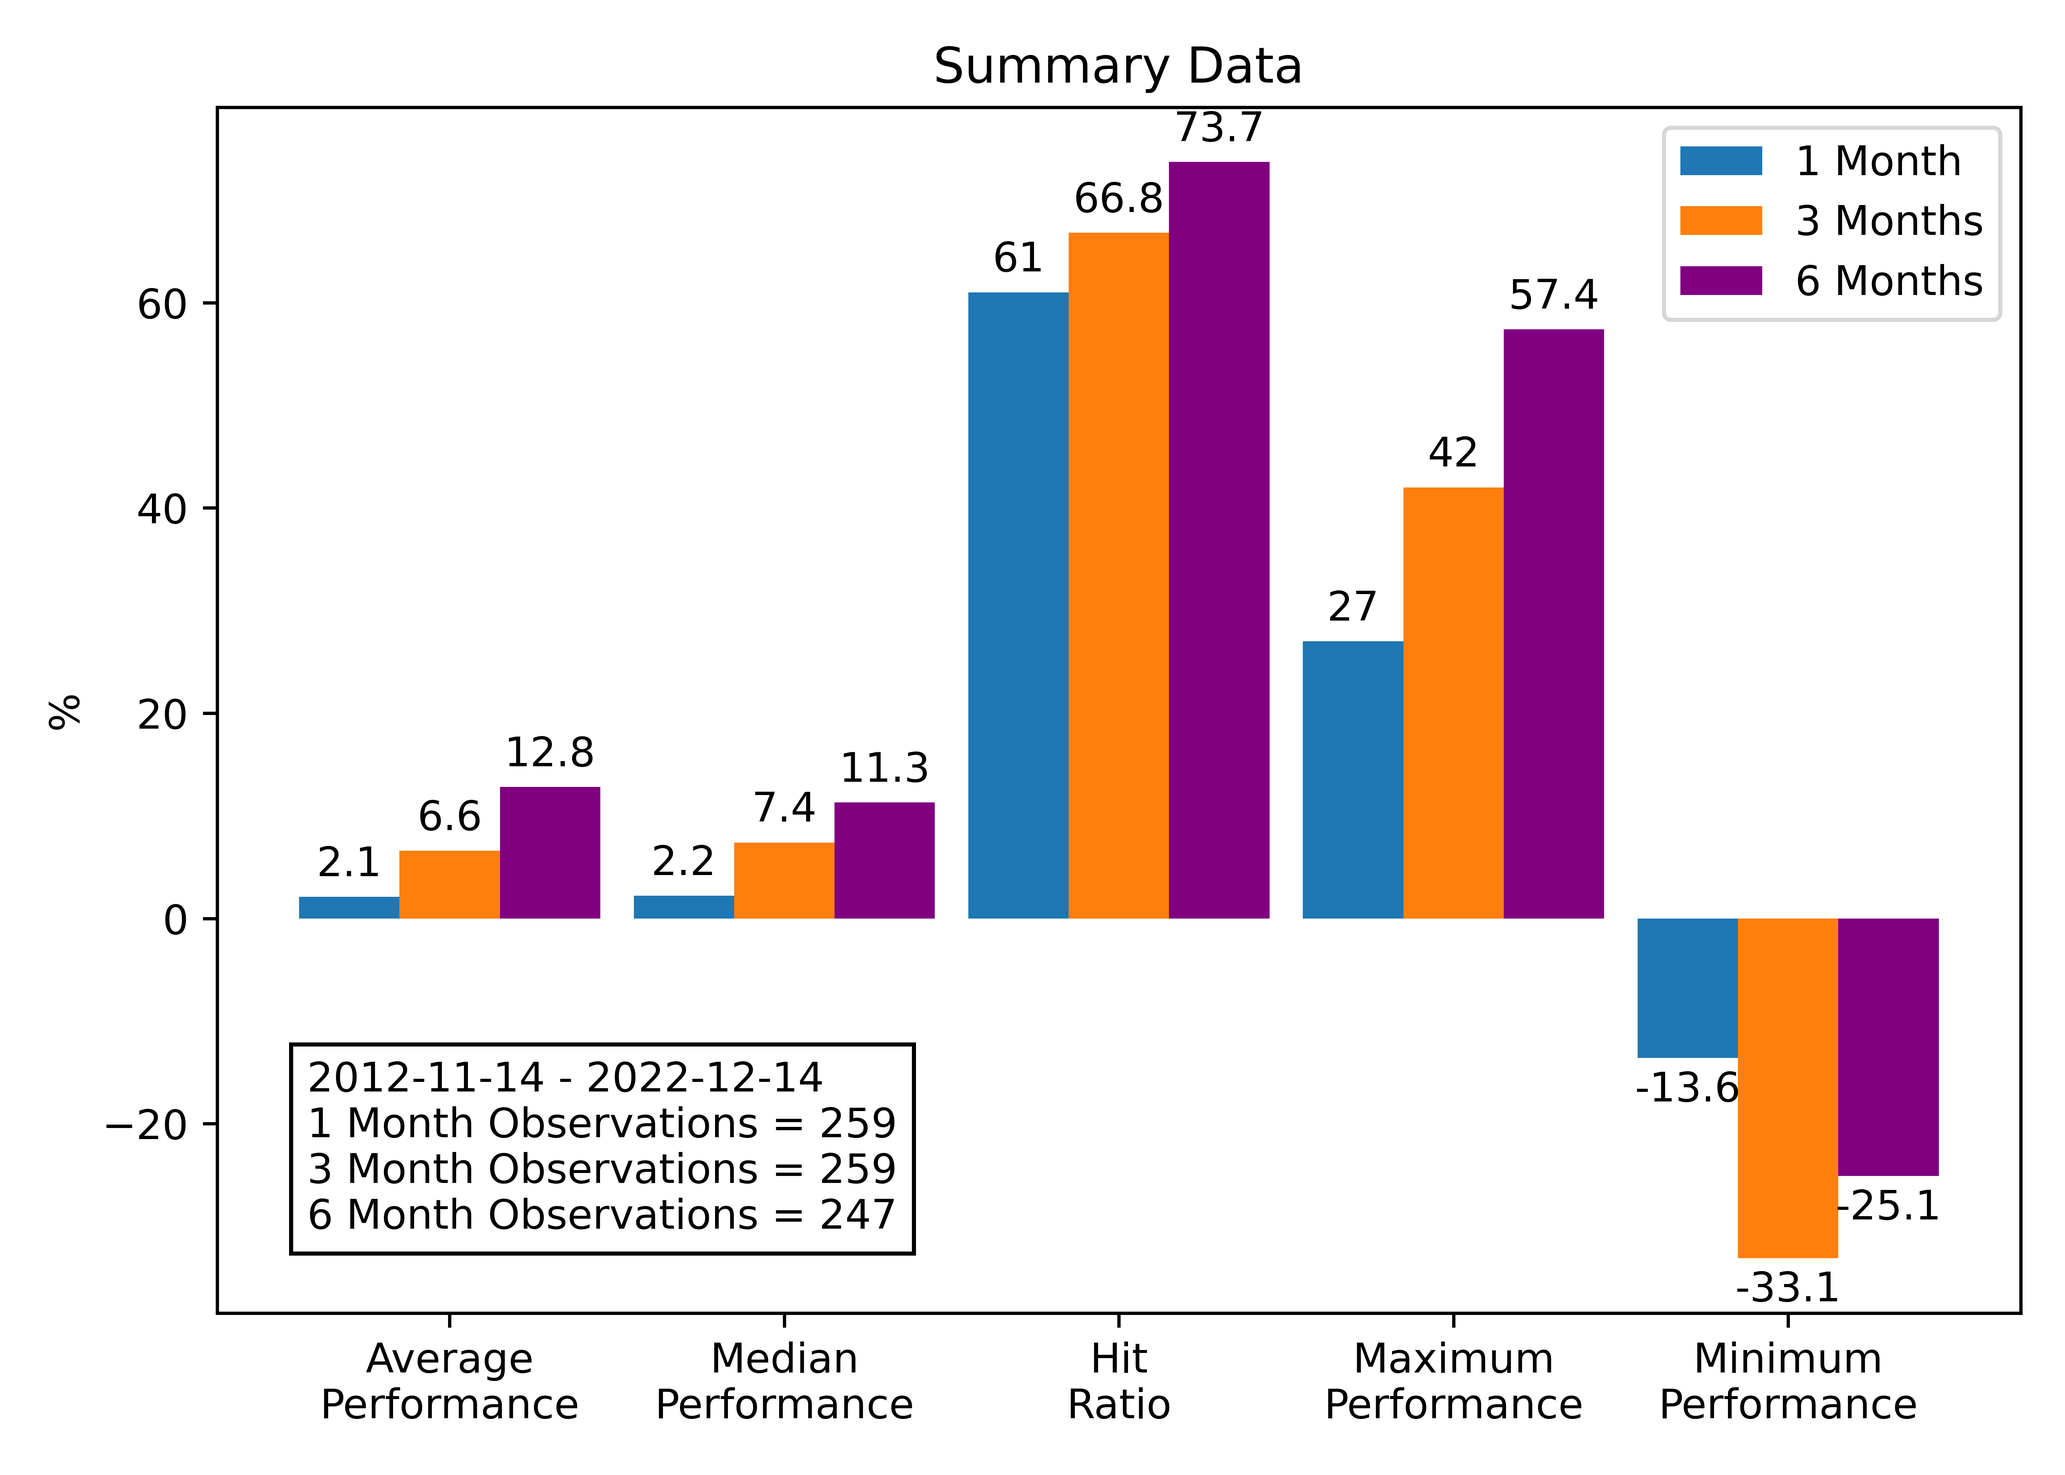
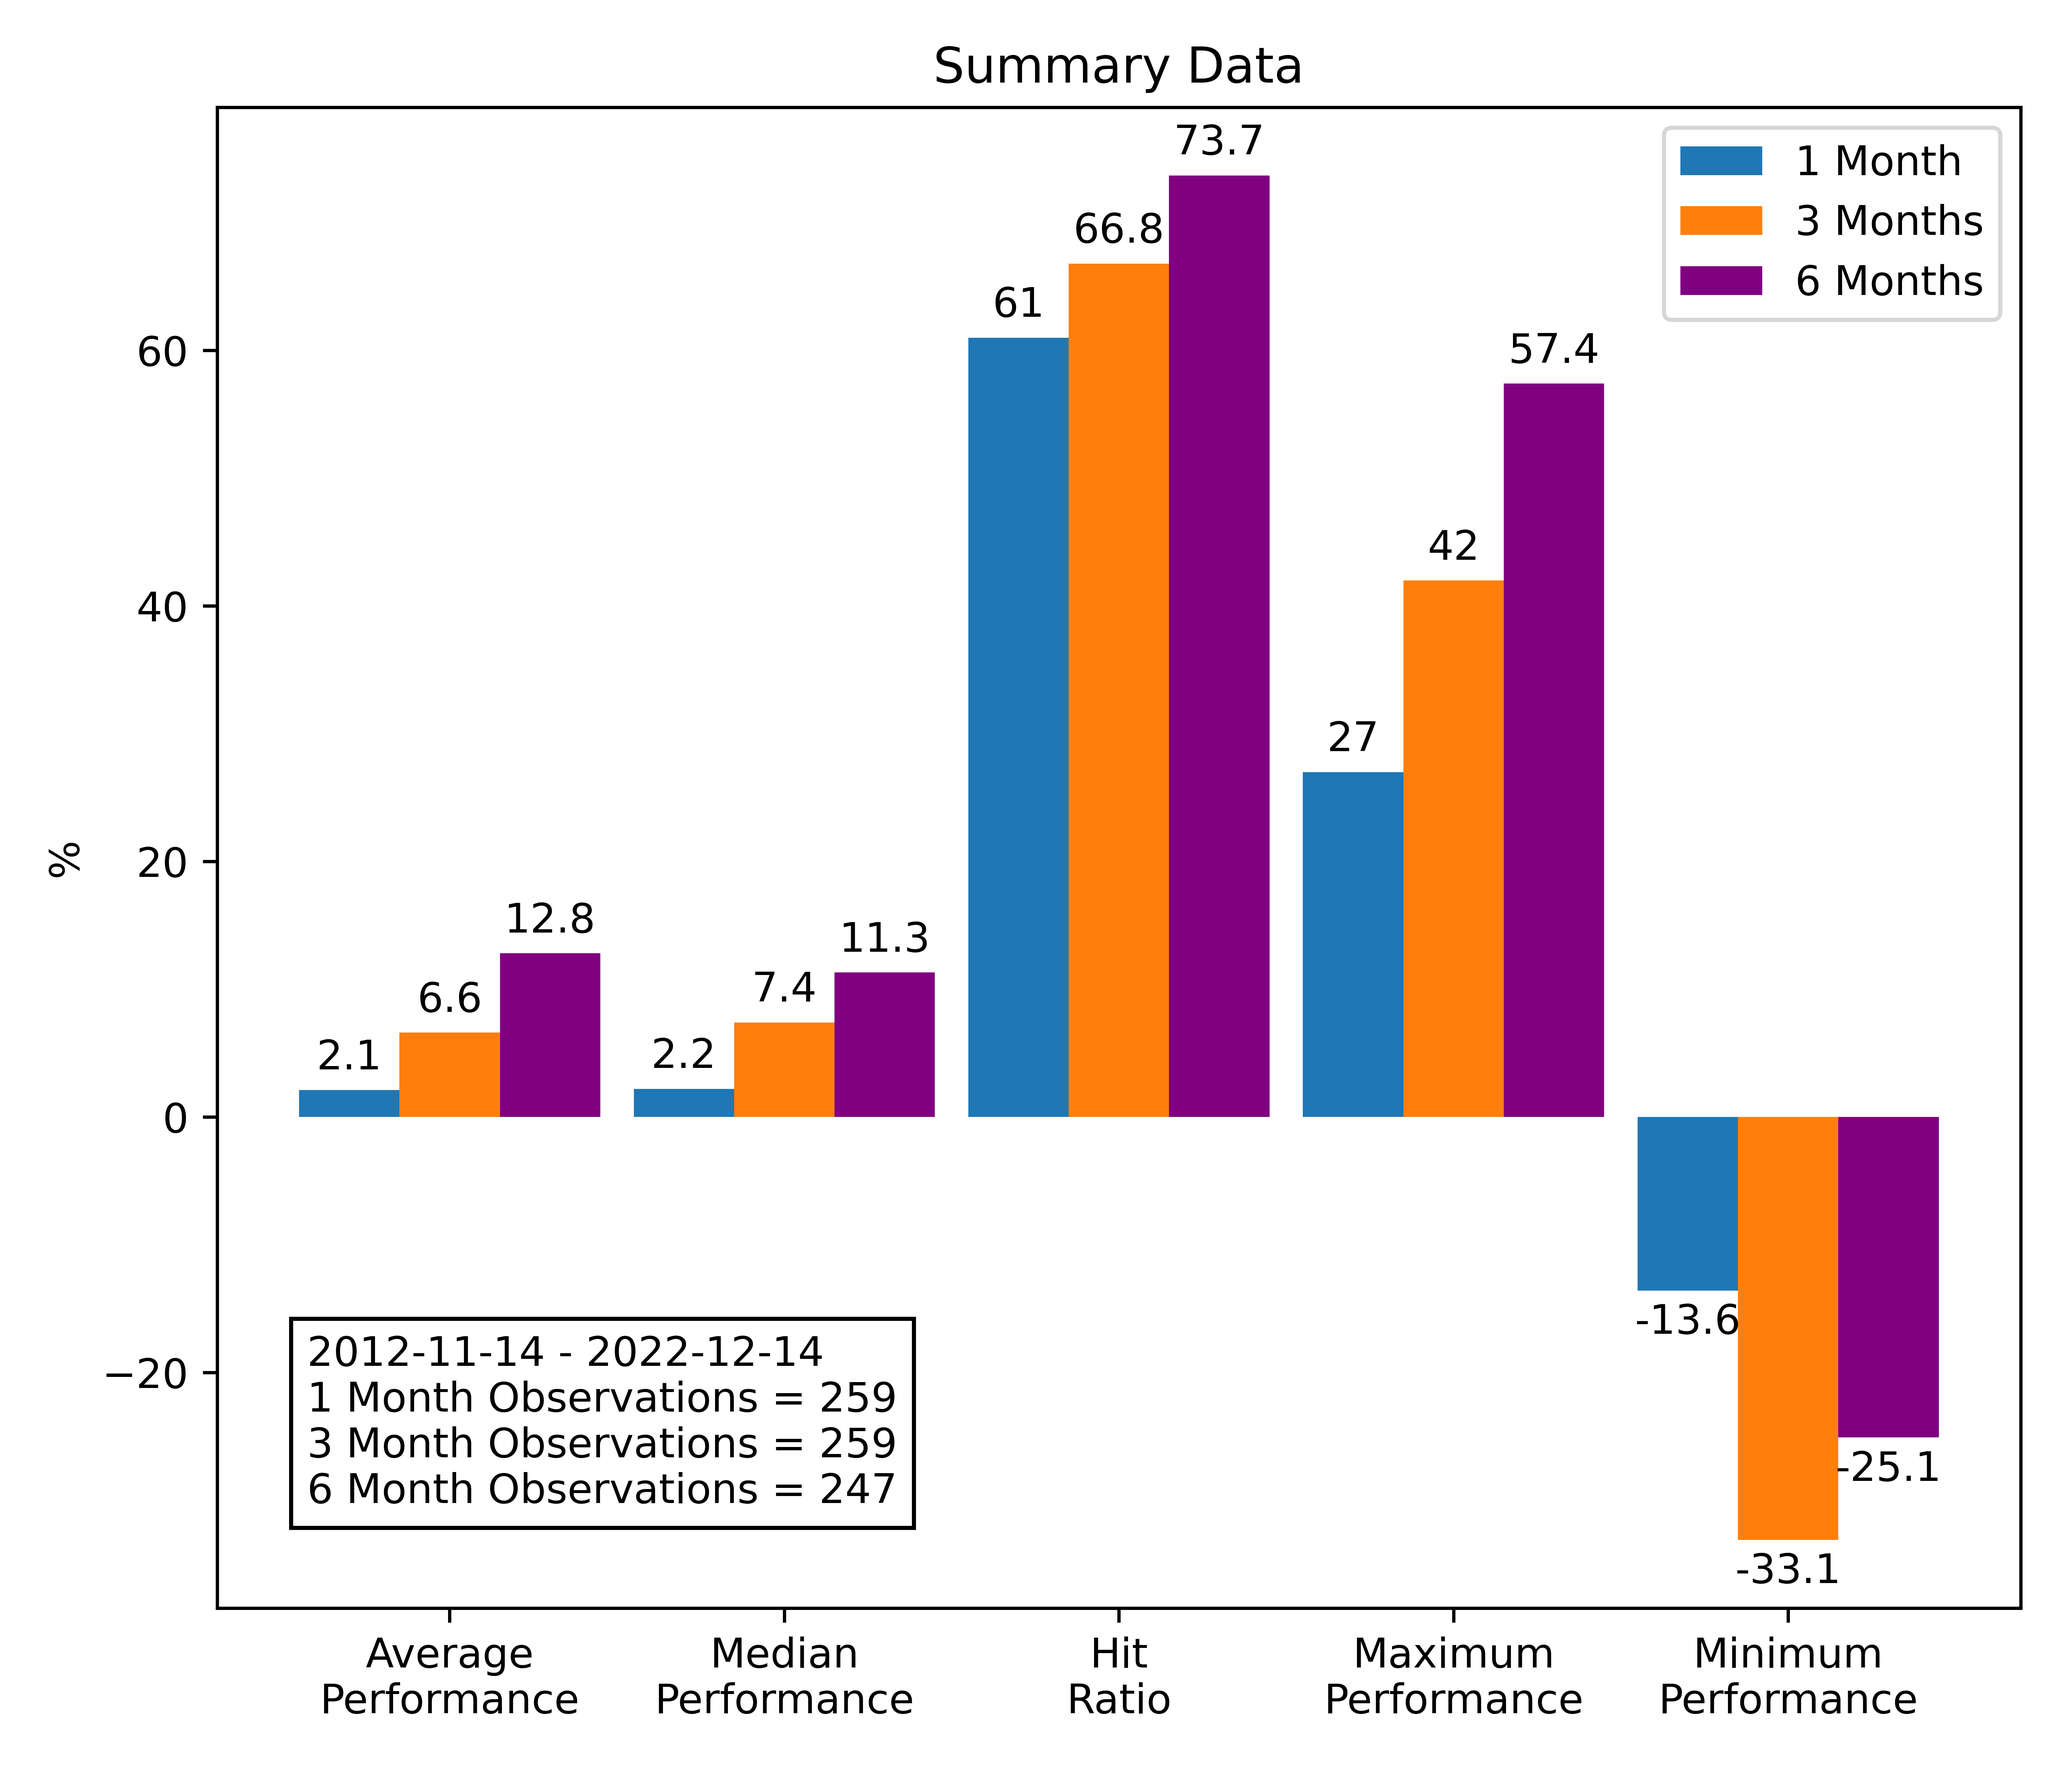
"

diff --git a/Plotting_summary_bar_chart.py b/Plotting_summary_bar_chart.py
@@ -66,7 +66,7 @@ x = np.arange(len(labels))  # the label locations
 width = 0.3  # the width of the bars
 
 fig, ax = plt.subplots()
-fig.set_size_inches(7, 5)
+fig.set_size_inches(7, 6)
 rects1 = ax.bar(x - width, one_month_list_perc, width, label='1 Month')
 rects2 = ax.bar(x, three_month_list_perc, width, label='3 Months')
 rects3 = ax.bar(x + width, six_month_list_perc, width, label='6 Months', color = 'purple')

diff --git a/Plotting_time_series.py b/Plotting_time_series.py
@@ -105,7 +105,7 @@ plt.connect('pick_event', on_pick)
 ax.set_title('Time Series Data')
 
 
-plt.savefig('Plot_examples/Time_Series_Data.png', dpi = 800)
+# plt.savefig('Plot_examples/Time_Series_Data.png', dpi = 800)
 
 
 plt.show()
